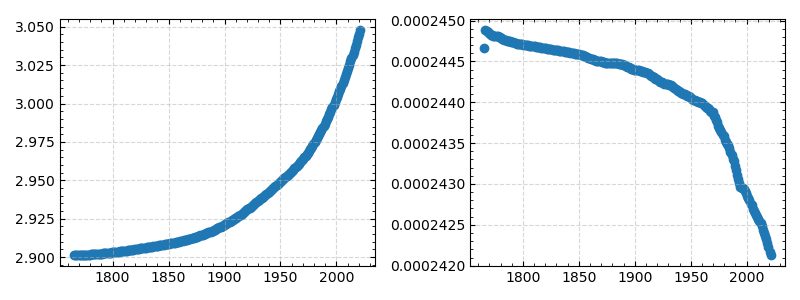
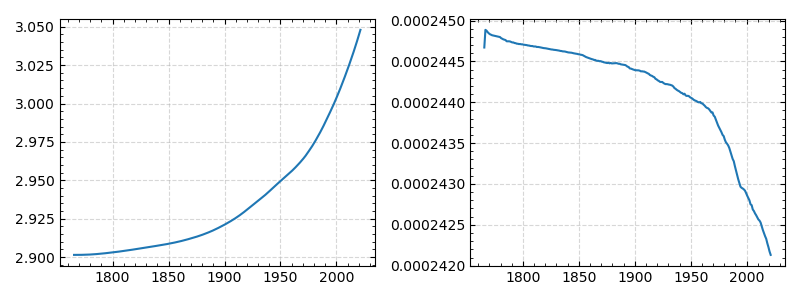
add more example data (related to  #1)

Changed region(s): [[0.0625, 0.09, 0.4688, 0.87], [0.5938, 0.09, 0.9688, 0.87]]

diff --git a/docs/source/auto_examples/plot_timeseries.py b/docs/source/auto_examples/plot_timeseries.py
@@ -3,7 +3,7 @@
 Extract and Plot cGENIE Time Series data
 ==============================================
 
-This example shows how to read in and plot cGENIE time series data
+This example shows how to read in and plot cGENIE time series data. The example historical run (1750-2022) is available from https://zenodo.org/records/10575295.
 """
 from cgeniepy.model import GenieModel
 import seaborn as sns
@@ -19,5 +19,5 @@ o2 = model.get_ts("ocn_O2")
 ## merge both and convert to ScatterData format
 ts_data = ScatterData(temp.merge(o2, on="time (yr)"))
 ts_data.set_index("time (yr)")
-ts_data.plot(var="temperature (C)", ax=axs[0])
-ts_data.plot(var="surface O2 (mol kg-1)", ax=axs[1])
+ts_data.plot(var="temperature (C)", ax=axs[0], kind='line')
+ts_data.plot(var="surface O2 (mol kg-1)", ax=axs[1], kind='line')

diff --git a/examples/plot_timeseries.py b/examples/plot_timeseries.py
@@ -3,7 +3,7 @@
 Extract and Plot cGENIE Time Series data
 ==============================================
 
-This example shows how to read in and plot cGENIE time series data
+This example shows how to read in and plot cGENIE time series data. The example historical run (1750-2022) is available from https://zenodo.org/records/10575295.
 """
 from cgeniepy.model import GenieModel
 import seaborn as sns
@@ -19,5 +19,5 @@ o2 = model.get_ts("ocn_O2")
 ## merge both and convert to ScatterData format
 ts_data = ScatterData(temp.merge(o2, on="time (yr)"))
 ts_data.set_index("time (yr)")
-ts_data.plot(var="temperature (C)", ax=axs[0])
-ts_data.plot(var="surface O2 (mol kg-1)", ax=axs[1])
+ts_data.plot(var="temperature (C)", ax=axs[0], kind='line')
+ts_data.plot(var="surface O2 (mol kg-1)", ax=axs[1], kind='line')

diff --git a/docs/source/auto_examples/plot_d13C_comp.py b/docs/source/auto_examples/plot_d13C_comp.py
@@ -3,7 +3,7 @@
 Search the nearest grid point for a given location
 =======================================================
 
-This example is a combination of ScatterData and GriddedData to search the nearest grid point for a given location. I use CESM model output and LGM d13C data from Peterson et al. 2014 (https://agupubs.onlinelibrary.wiley.com/doi/full/10.1002/2013PA002552) as an example.
+This example is a combination of ScatterData and GriddedData to search the nearest grid point for a given location. I use CESM model output(You can download them from https://zenodo.org/records/13786014) and LGM d13C data from Peterson et al. 2014 (https://agupubs.onlinelibrary.wiley.com/doi/full/10.1002/2013PA002552) as an example.
 """
 
 from cgeniepy.table import ScatterData

diff --git a/examples/plot_d13C_comp.py b/examples/plot_d13C_comp.py
@@ -3,7 +3,7 @@
 Search the nearest grid point for a given location
 =======================================================
 
-This example is a combination of ScatterData and GriddedData to search the nearest grid point for a given location. I use CESM model output and LGM d13C data from Peterson et al. 2014 (https://agupubs.onlinelibrary.wiley.com/doi/full/10.1002/2013PA002552) as an example.
+This example is a combination of ScatterData and GriddedData to search the nearest grid point for a given location. I use CESM model output(You can download them from https://zenodo.org/records/13786014) and LGM d13C data from Peterson et al. 2014 (https://agupubs.onlinelibrary.wiley.com/doi/full/10.1002/2013PA002552) as an example.
 """
 
 from cgeniepy.table import ScatterData

diff --git a/docs/source/auto_examples/plot_other_models.py b/docs/source/auto_examples/plot_other_models.py
@@ -3,7 +3,8 @@
 Plot Other Models' output
 =============================
 
-This example shows how to use cgeniepy to plot gridded data from other models.
+This example shows how to use cgeniepy to plot gridded data from other models (CESM and HadCM3 here).
+You can download them from https://zenodo.org/records/13786014.
 """
 from cgeniepy.array import GriddedData
 import xarray as xr

diff --git a/examples/plot_other_models.py b/examples/plot_other_models.py
@@ -3,7 +3,8 @@
 Plot Other Models' output
 =============================
 
-This example shows how to use cgeniepy to plot gridded data from other models.
+This example shows how to use cgeniepy to plot gridded data from other models (CESM and HadCM3 here).
+You can download them from https://zenodo.org/records/13786014.
 """
 from cgeniepy.array import GriddedData
 import xarray as xr

diff --git a/docs/source/auto_examples/plot_regridded_data.py b/docs/source/auto_examples/plot_regridded_data.py
@@ -16,6 +16,8 @@ This example uses many features from the cgeniepy package, including:
 #. Visualisation based on cgeniepy's customised plotting functions
 
 #. Compare model and observational data
+
+The GLODAPV2 data is from https://glodap.info/index.php/mapped-data-product/.
 """
 import xarray as xr
 import numpy as np

diff --git a/examples/plot_regridded_data.py b/examples/plot_regridded_data.py
@@ -16,6 +16,8 @@ This example uses many features from the cgeniepy package, including:
 #. Visualisation based on cgeniepy's customised plotting functions
 
 #. Compare model and observational data
+
+The GLODAPV2 data is from https://glodap.info/index.php/mapped-data-product/.
 """
 import xarray as xr
 import numpy as np

diff --git a/docs/source/auto_examples/index.rst b/docs/source/auto_examples/index.rst
@@ -100,23 +100,6 @@ Below is a gallery of examples
 
 .. raw:: html
 
-    <div class="sphx-glr-thumbcontainer" tooltip="This example shows how to read in and plot cGENIE time series data">
-
-.. only:: html
-
-  .. image:: /auto_examples/images/thumb/sphx_glr_plot_timeseries_thumb.png
-    :alt:
-
-  :ref:`sphx_glr_auto_examples_plot_timeseries.py`
-
-.. raw:: html
-
-      <div class="sphx-glr-thumbnail-title">Extract and Plot cGENIE Time Series data</div>
-    </div>
-
-
-.. raw:: html
-
     <div class="sphx-glr-thumbcontainer" tooltip="This example shows how to customise the 2D map including the projection, the color map, which is used as the logo of this package.">
 
 .. only:: html
@@ -129,6 +112,23 @@ Below is a gallery of examples
 .. raw:: html
 
       <div class="sphx-glr-thumbnail-title">Customise the 2D map projection</div>
+    </div>
+
+
+.. raw:: html
+
+    <div class="sphx-glr-thumbcontainer" tooltip="This example shows how to read in and plot cGENIE time series data. The example historical run (1750-2022) is available from https://zenodo.org/records/10575295.">
+
+.. only:: html
+
+  .. image:: /auto_examples/images/thumb/sphx_glr_plot_timeseries_thumb.png
+    :alt:
+
+  :ref:`sphx_glr_auto_examples_plot_timeseries.py`
+
+.. raw:: html
+
+      <div class="sphx-glr-thumbnail-title">Extract and Plot cGENIE Time Series data</div>
     </div>
 
 
@@ -219,7 +219,7 @@ Below is a gallery of examples
 
 .. raw:: html
 
-    <div class="sphx-glr-thumbcontainer" tooltip="This example shows how to use cgeniepy to plot gridded data from other models.">
+    <div class="sphx-glr-thumbcontainer" tooltip="This example shows how to use cgeniepy to plot gridded data from other models (CESM and HadCM3 here). You can download them from https://zenodo.org/records/13786014.">
 
 .. only:: html
 
@@ -236,7 +236,7 @@ Below is a gallery of examples
 
 .. raw:: html
 
-    <div class="sphx-glr-thumbcontainer" tooltip="This example is a combination of ScatterData and GriddedData to search the nearest grid point for a given location. I use CESM model output and LGM d13C data from Peterson et al. 2014 (https://agupubs.onlinelibrary.wiley.com/doi/full/10.1002/2013PA002552) as an example.">
+    <div class="sphx-glr-thumbcontainer" tooltip="This example is a combination of ScatterData and GriddedData to search the nearest grid point for a given location. I use CESM model output(You can download them from https://zenodo.org/records/13786014) and LGM d13C data from Peterson et al. 2014 (https://agupubs.onlinelibrary.wiley.com/doi/full/10.1002/2013PA002552) as an example.">
 
 .. only:: html
 
@@ -283,8 +283,8 @@ Below is a gallery of examples
    /auto_examples/plot_coastal_data
    /auto_examples/plot_sst_map
    /auto_examples/plot_scatter_map
-   /auto_examples/plot_timeseries
    /auto_examples/plot_logo
+   /auto_examples/plot_timeseries
    /auto_examples/plot_PO4_distribution
    /auto_examples/plot_multiple_vars
    /auto_examples/plot_taylor_diagram

diff --git a/docs/source/auto_examples/plot_d13C_comp.rst b/docs/source/auto_examples/plot_d13C_comp.rst
@@ -11,7 +11,7 @@
         :class: sphx-glr-download-link-note
 
         :ref:`Go to the end <sphx_glr_download_auto_examples_plot_d13C_comp.py>`
-        to download the full example code
+        to download the full example code.
 
 .. rst-class:: sphx-glr-example-title
 
@@ -22,7 +22,7 @@
 Search the nearest grid point for a given location
 =======================================================
 
-This example is a combination of ScatterData and GriddedData to search the nearest grid point for a given location. I use CESM model output and LGM d13C data from Peterson et al. 2014 (https://agupubs.onlinelibrary.wiley.com/doi/full/10.1002/2013PA002552) as an example.
+This example is a combination of ScatterData and GriddedData to search the nearest grid point for a given location. I use CESM model output(You can download them from https://zenodo.org/records/13786014) and LGM d13C data from Peterson et al. 2014 (https://agupubs.onlinelibrary.wiley.com/doi/full/10.1002/2013PA002552) as an example.
 
 .. GENERATED FROM PYTHON SOURCE LINES 8-41
 
@@ -76,7 +76,7 @@ This example is a combination of ScatterData and GriddedData to search the neare
 
 .. rst-class:: sphx-glr-timing
 
-   **Total running time of the script:** (0 minutes 31.951 seconds)
+   **Total running time of the script:** (0 minutes 32.458 seconds)
 
 
 .. _sphx_glr_download_auto_examples_plot_d13C_comp.py:
@@ -92,6 +92,10 @@ This example is a combination of ScatterData and GriddedData to search the neare
     .. container:: sphx-glr-download sphx-glr-download-python
 
       :download:`Download Python source code: plot_d13C_comp.py <plot_d13C_comp.py>`
+
+    .. container:: sphx-glr-download sphx-glr-download-zip
+
+      :download:`Download zipped: plot_d13C_comp.zip <plot_d13C_comp.zip>`
 
 
 .. only:: html

diff --git a/docs/source/auto_examples/plot_other_models.rst b/docs/source/auto_examples/plot_other_models.rst
@@ -11,7 +11,7 @@
         :class: sphx-glr-download-link-note
 
         :ref:`Go to the end <sphx_glr_download_auto_examples_plot_other_models.py>`
-        to download the full example code
+        to download the full example code.
 
 .. rst-class:: sphx-glr-example-title
 
@@ -22,9 +22,10 @@
 Plot Other Models' output
 =============================
 
-This example shows how to use cgeniepy to plot gridded data from other models.
+This example shows how to use cgeniepy to plot gridded data from other models (CESM and HadCM3 here).
+You can download them from https://zenodo.org/records/13786014.
 
-.. GENERATED FROM PYTHON SOURCE LINES 8-35
+.. GENERATED FROM PYTHON SOURCE LINES 9-36
 
 
 
@@ -39,7 +40,7 @@ This example shows how to use cgeniepy to plot gridded data from other models.
  .. code-block:: none
 
 
-    <matplotlib.colorbar.Colorbar object at 0x323cb3eb0>
+    <matplotlib.colorbar.Colorbar object at 0x1612946b0>
 
 
 
@@ -80,7 +81,7 @@ This example shows how to use cgeniepy to plot gridded data from other models.
 
 .. rst-class:: sphx-glr-timing
 
-   **Total running time of the script:** (0 minutes 4.470 seconds)
+   **Total running time of the script:** (0 minutes 4.552 seconds)
 
 
 .. _sphx_glr_download_auto_examples_plot_other_models.py:
@@ -96,6 +97,10 @@ This example shows how to use cgeniepy to plot gridded data from other models.
     .. container:: sphx-glr-download sphx-glr-download-python
 
       :download:`Download Python source code: plot_other_models.py <plot_other_models.py>`
+
+    .. container:: sphx-glr-download sphx-glr-download-zip
+
+      :download:`Download zipped: plot_other_models.zip <plot_other_models.zip>`
 
 
 .. only:: html

diff --git a/docs/source/auto_examples/plot_timeseries.rst b/docs/source/auto_examples/plot_timeseries.rst
@@ -22,7 +22,7 @@
 Extract and Plot cGENIE Time Series data
 ==============================================
 
-This example shows how to read in and plot cGENIE time series data
+This example shows how to read in and plot cGENIE time series data. The example historical run (1750-2022) is available from https://zenodo.org/records/10575295.
 
 .. GENERATED FROM PYTHON SOURCE LINES 8-24
 
@@ -41,7 +41,7 @@ This example shows how to read in and plot cGENIE time series data
     /Users/yingrui/cgeniepy/src/cgeniepy/model.py:51: UserWarning: No gemflag is provided, use default gemflags: [biogem]
       warnings.warn("No gemflag is provided, use default gemflags: [biogem]")
 
-    <matplotlib.collections.PathCollection object at 0x16ce5c860>
+    [<matplotlib.lines.Line2D object at 0x15088fbc0>]
 
 
 
@@ -65,13 +65,13 @@ This example shows how to read in and plot cGENIE time series data
     ## merge both and convert to ScatterData format
     ts_data = ScatterData(temp.merge(o2, on="time (yr)"))
     ts_data.set_index("time (yr)")
-    ts_data.plot(var="temperature (C)", ax=axs[0])
-    ts_data.plot(var="surface O2 (mol kg-1)", ax=axs[1])
+    ts_data.plot(var="temperature (C)", ax=axs[0], kind='line')
+    ts_data.plot(var="surface O2 (mol kg-1)", ax=axs[1], kind='line')
 
 
 .. rst-class:: sphx-glr-timing
 
-   **Total running time of the script:** (0 minutes 4.310 seconds)
+   **Total running time of the script:** (0 minutes 1.511 seconds)
 
 
 .. _sphx_glr_download_auto_examples_plot_timeseries.py:
